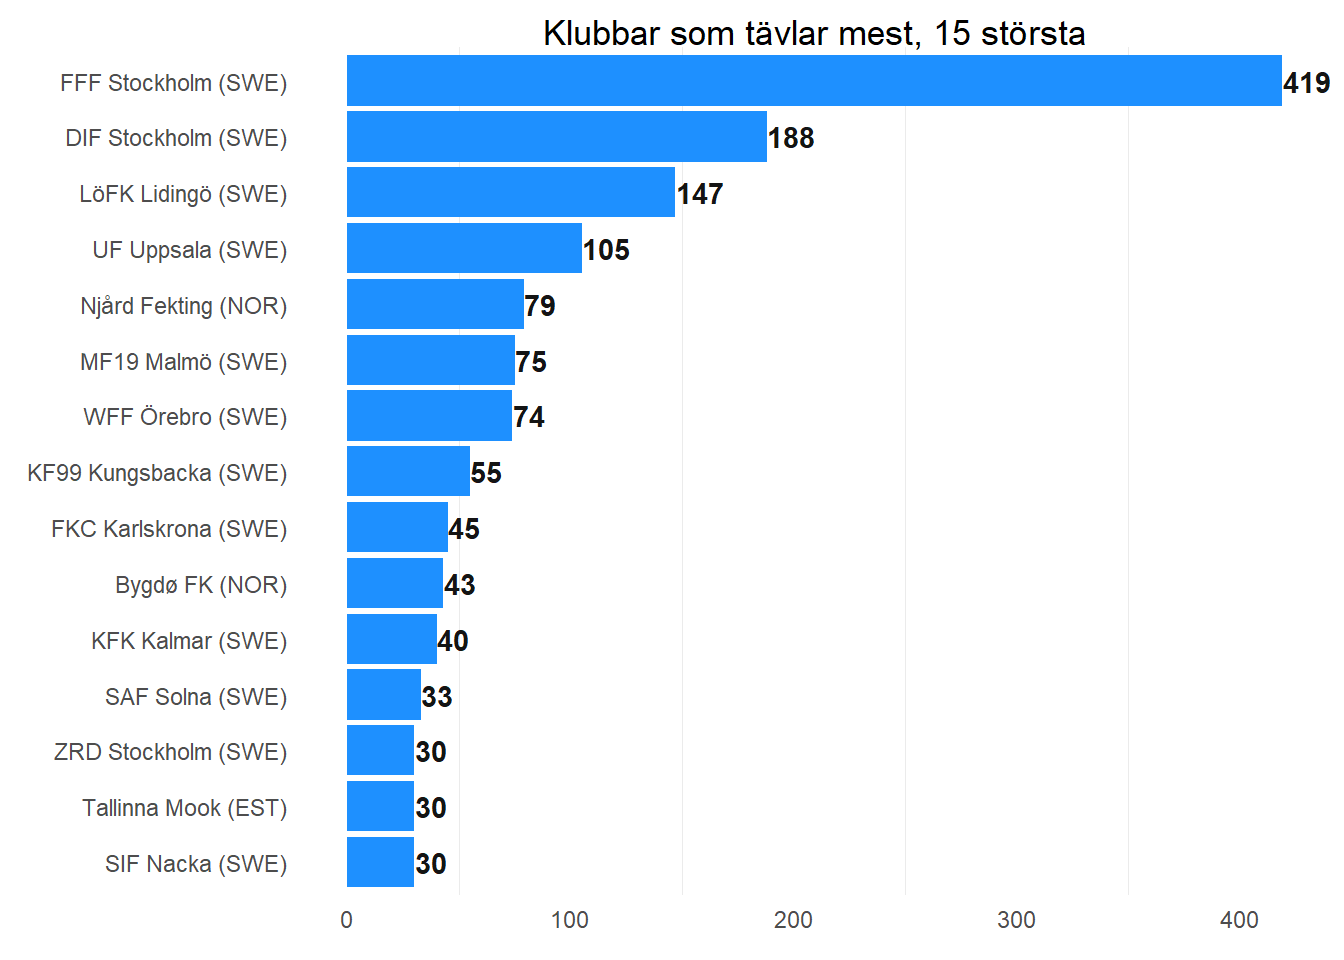
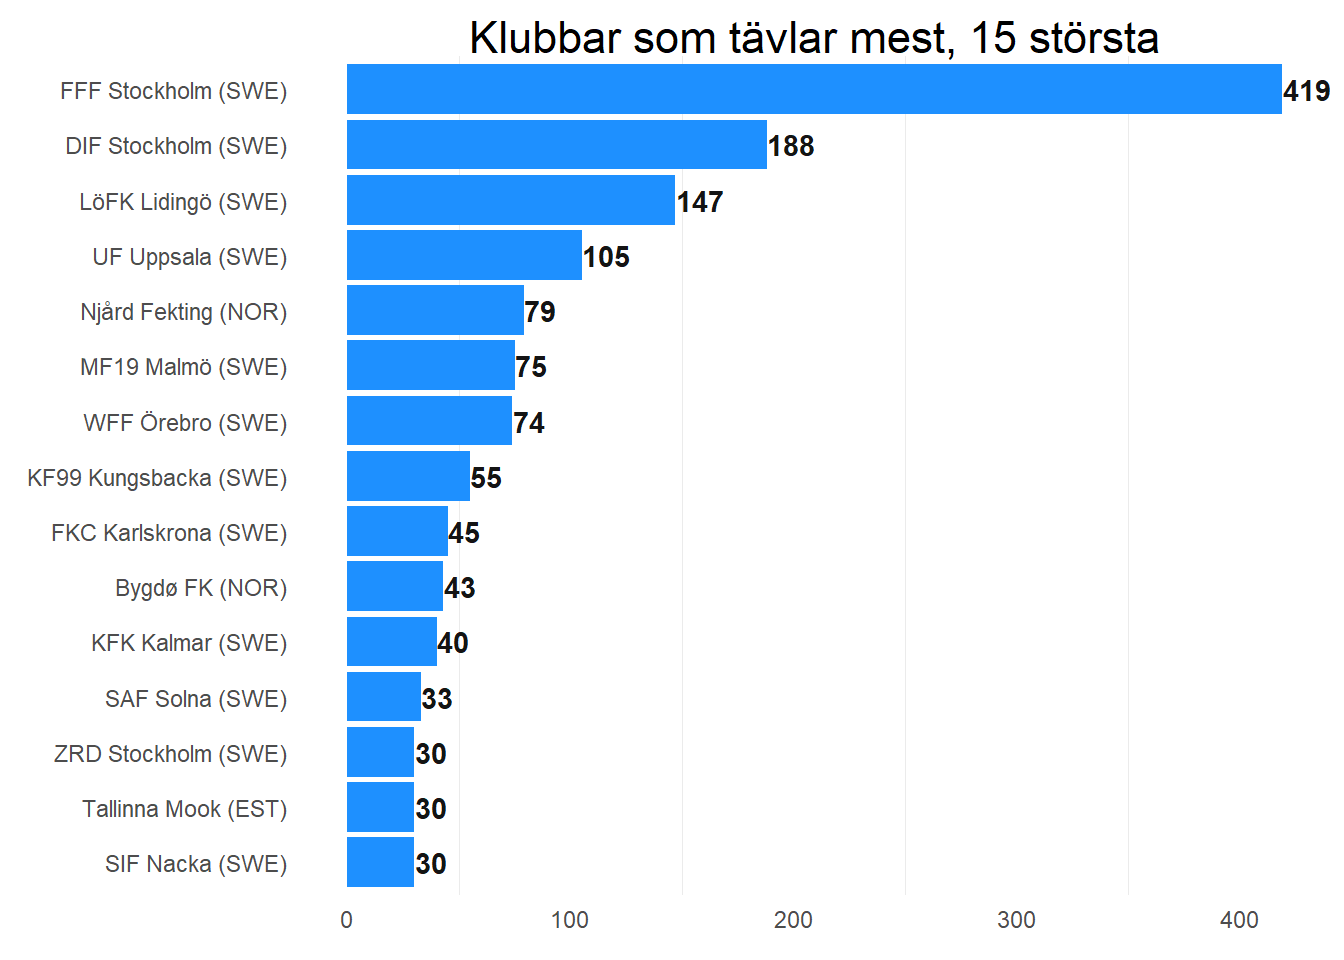
change fons size in ggplot theme

diff --git a/_site/posts/2023-03-23-stats_2023_clubs/index.html b/_site/posts/2023-03-23-stats_2023_clubs/index.html
@@ -200,23 +200,23 @@ ul.task-list li input[type="checkbox"] {
 <p>En sak till vore kul att kolla på och det är hur tävlingsdeltagandet för enskilda tävlingar, uppdelat per klubb, dvs på vilka tävlingar kan vi se många fäktare från samma klubb. Vi har tidigare konstaterat att de flesta tävlingar som drar många deltagare ligger utanför Stockholm och det kan vara kul att se hur mycket olika klubbar reser.</p>
 <div class="cell">
 <div class="cell-output-display">
-<div id="rlotyzjoeg" style="padding-left:0px;padding-right:0px;padding-top:10px;padding-bottom:10px;overflow-x:auto;overflow-y:auto;width:auto;height:auto;">
-<style>#rlotyzjoeg table {
+<div id="qmfsnofafq" style="padding-left:0px;padding-right:0px;padding-top:10px;padding-bottom:10px;overflow-x:auto;overflow-y:auto;width:auto;height:auto;">
+<style>#qmfsnofafq table {
   font-family: system-ui, 'Segoe UI', Roboto, Helvetica, Arial, sans-serif, 'Apple Color Emoji', 'Segoe UI Emoji', 'Segoe UI Symbol', 'Noto Color Emoji';
   -webkit-font-smoothing: antialiased;
   -moz-osx-font-smoothing: grayscale;
 }
 
-#rlotyzjoeg thead, #rlotyzjoeg tbody, #rlotyzjoeg tfoot, #rlotyzjoeg tr, #rlotyzjoeg td, #rlotyzjoeg th {
+#qmfsnofafq thead, #qmfsnofafq tbody, #qmfsnofafq tfoot, #qmfsnofafq tr, #qmfsnofafq td, #qmfsnofafq th {
   border-style: none;
 }
 
-#rlotyzjoeg p {
+#qmfsnofafq p {
   margin: 0;
   padding: 0;
 }
 
-#rlotyzjoeg .gt_table {
+#qmfsnofafq .gt_table {
   display: table;
   border-collapse: collapse;
   line-height: normal;
@@ -242,12 +242,12 @@ ul.task-list li input[type="checkbox"] {
   border-left-color: #D3D3D3;
 }
 
-#rlotyzjoeg .gt_caption {
+#qmfsnofafq .gt_caption {
   padding-top: 4px;
   padding-bottom: 4px;
 }
 
-#rlotyzjoeg .gt_title {
+#qmfsnofafq .gt_title {
   color: #333333;
   font-size: 125%;
   font-weight: initial;
@@ -259,7 +259,7 @@ ul.task-list li input[type="checkbox"] {
   border-bottom-width: 0;
 }
 
-#rlotyzjoeg .gt_subtitle {
+#qmfsnofafq .gt_subtitle {
   color: #333333;
   font-size: 85%;
   font-weight: initial;
@@ -271,7 +271,7 @@ ul.task-list li input[type="checkbox"] {
   border-top-width: 0;
 }
 
-#rlotyzjoeg .gt_heading {
+#qmfsnofafq .gt_heading {
   background-color: #FFFFFF;
   text-align: center;
   border-bottom-color: #FFFFFF;
@@ -283,13 +283,13 @@ ul.task-list li input[type="checkbox"] {
   border-right-color: #D3D3D3;
 }
 
-#rlotyzjoeg .gt_bottom_border {
+#qmfsnofafq .gt_bottom_border {
   border-bottom-style: solid;
   border-bottom-width: 2px;
   border-bottom-color: #D3D3D3;
 }
 
-#rlotyzjoeg .gt_col_headings {
+#qmfsnofafq .gt_col_headings {
   border-top-style: solid;
   border-top-width: 2px;
   border-top-color: #D3D3D3;
@@ -304,7 +304,7 @@ ul.task-list li input[type="checkbox"] {
   border-right-color: #D3D3D3;
 }
 
-#rlotyzjoeg .gt_col_heading {
+#qmfsnofafq .gt_col_heading {
   color: #333333;
   background-color: #FFFFFF;
   font-size: 100%;
@@ -324,7 +324,7 @@ ul.task-list li input[type="checkbox"] {
   overflow-x: hidden;
 }
 
-#rlotyzjoeg .gt_column_spanner_outer {
+#qmfsnofafq .gt_column_spanner_outer {
   color: #333333;
   background-color: #FFFFFF;
   font-size: 100%;
@@ -336,15 +336,15 @@ ul.task-list li input[type="checkbox"] {
   padding-right: 4px;
 }
 
-#rlotyzjoeg .gt_column_spanner_outer:first-child {
+#qmfsnofafq .gt_column_spanner_outer:first-child {
   padding-left: 0;
 }
 
-#rlotyzjoeg .gt_column_spanner_outer:last-child {
+#qmfsnofafq .gt_column_spanner_outer:last-child {
   padding-right: 0;
 }
 
-#rlotyzjoeg .gt_column_spanner {
+#qmfsnofafq .gt_column_spanner {
   border-bottom-style: solid;
   border-bottom-width: 2px;
   border-bottom-color: #D3D3D3;
@@ -356,11 +356,11 @@ ul.task-list li input[type="checkbox"] {
   width: 100%;
 }
 
-#rlotyzjoeg .gt_spanner_row {
+#qmfsnofafq .gt_spanner_row {
   border-bottom-style: hidden;
 }
 
-#rlotyzjoeg .gt_group_heading {
+#qmfsnofafq .gt_group_heading {
   padding-top: 8px;
   padding-bottom: 8px;
   padding-left: 5px;
@@ -386,7 +386,7 @@ ul.task-list li input[type="checkbox"] {
   text-align: left;
 }
 
-#rlotyzjoeg .gt_empty_group_heading {
+#qmfsnofafq .gt_empty_group_heading {
   padding: 0.5px;
   color: #333333;
   background-color: #FFFFFF;
@@ -401,15 +401,15 @@ ul.task-list li input[type="checkbox"] {
   vertical-align: middle;
 }
 
-#rlotyzjoeg .gt_from_md > :first-child {
+#qmfsnofafq .gt_from_md > :first-child {
   margin-top: 0;
 }
 
-#rlotyzjoeg .gt_from_md > :last-child {
+#qmfsnofafq .gt_from_md > :last-child {
   margin-bottom: 0;
 }
 
-#rlotyzjoeg .gt_row {
+#qmfsnofafq .gt_row {
   padding-top: 8px;
   padding-bottom: 8px;
   padding-left: 5px;
@@ -428,7 +428,7 @@ ul.task-list li input[type="checkbox"] {
   overflow-x: hidden;
 }
 
-#rlotyzjoeg .gt_stub {
+#qmfsnofafq .gt_stub {
   color: #333333;
   background-color: #FFFFFF;
   font-size: 100%;
@@ -441,7 +441,7 @@ ul.task-list li input[type="checkbox"] {
   padding-right: 5px;
 }
 
-#rlotyzjoeg .gt_stub_row_group {
+#qmfsnofafq .gt_stub_row_group {
   color: #333333;
   background-color: #FFFFFF;
   font-size: 100%;
@@ -455,15 +455,15 @@ ul.task-list li input[type="checkbox"] {
   vertical-align: top;
 }
 
-#rlotyzjoeg .gt_row_group_first td {
+#qmfsnofafq .gt_row_group_first td {
   border-top-width: 2px;
 }
 
-#rlotyzjoeg .gt_row_group_first th {
+#qmfsnofafq .gt_row_group_first th {
   border-top-width: 2px;
 }
 
-#rlotyzjoeg .gt_summary_row {
+#qmfsnofafq .gt_summary_row {
   color: #333333;
   background-color: #FFFFFF;
   text-transform: inherit;
@@ -473,16 +473,16 @@ ul.task-list li input[type="checkbox"] {
   padding-right: 5px;
 }
 
-#rlotyzjoeg .gt_first_summary_row {
+#qmfsnofafq .gt_first_summary_row {
   border-top-style: solid;
   border-top-color: #D3D3D3;
 }
 
-#rlotyzjoeg .gt_first_summary_row.thick {
+#qmfsnofafq .gt_first_summary_row.thick {
   border-top-width: 2px;
 }
 
-#rlotyzjoeg .gt_last_summary_row {
+#qmfsnofafq .gt_last_summary_row {
   padding-top: 8px;
   padding-bottom: 8px;
   padding-left: 5px;
@@ -492,7 +492,7 @@ ul.task-list li input[type="checkbox"] {
   border-bottom-color: #D3D3D3;
 }
 
-#rlotyzjoeg .gt_grand_summary_row {
+#qmfsnofafq .gt_grand_summary_row {
   color: #333333;
   background-color: #FFFFFF;
   text-transform: inherit;
@@ -502,7 +502,7 @@ ul.task-list li input[type="checkbox"] {
   padding-right: 5px;
 }
 
-#rlotyzjoeg .gt_first_grand_summary_row {
+#qmfsnofafq .gt_first_grand_summary_row {
   padding-top: 8px;
   padding-bottom: 8px;
   padding-left: 5px;
@@ -512,7 +512,7 @@ ul.task-list li input[type="checkbox"] {
   border-top-color: #D3D3D3;
 }
 
-#rlotyzjoeg .gt_last_grand_summary_row_top {
+#qmfsnofafq .gt_last_grand_summary_row_top {
   padding-top: 8px;
   padding-bottom: 8px;
   padding-left: 5px;
@@ -522,11 +522,11 @@ ul.task-list li input[type="checkbox"] {
   border-bottom-color: #D3D3D3;
 }
 
-#rlotyzjoeg .gt_striped {
+#qmfsnofafq .gt_striped {
   background-color: rgba(128, 128, 128, 0.05);
 }
 
-#rlotyzjoeg .gt_table_body {
+#qmfsnofafq .gt_table_body {
   border-top-style: solid;
   border-top-width: 2px;
   border-top-color: #D3D3D3;
@@ -535,7 +535,7 @@ ul.task-list li input[type="checkbox"] {
   border-bottom-color: #D3D3D3;
 }
 
-#rlotyzjoeg .gt_footnotes {
+#qmfsnofafq .gt_footnotes {
   color: #333333;
   background-color: #FFFFFF;
   border-bottom-style: none;
@@ -549,7 +549,7 @@ ul.task-list li input[type="checkbox"] {
   border-right-color: #D3D3D3;
 }
 
-#rlotyzjoeg .gt_footnote {
+#qmfsnofafq .gt_footnote {
   margin: 0px;
   font-size: 90%;
   padding-top: 4px;
@@ -558,7 +558,7 @@ ul.task-list li input[type="checkbox"] {
   padding-right: 5px;
 }
 
-#rlotyzjoeg .gt_sourcenotes {
+#qmfsnofafq .gt_sourcenotes {
   color: #333333;
   background-color: #FFFFFF;
   border-bottom-style: none;
@@ -572,7 +572,7 @@ ul.task-list li input[type="checkbox"] {
   border-right-color: #D3D3D3;
 }
 
-#rlotyzjoeg .gt_sourcenote {
+#qmfsnofafq .gt_sourcenote {
   font-size: 90%;
   padding-top: 4px;
   padding-bottom: 4px;
@@ -580,63 +580,63 @@ ul.task-list li input[type="checkbox"] {
   padding-right: 5px;
 }
 
-#rlotyzjoeg .gt_left {
+#qmfsnofafq .gt_left {
   text-align: left;
 }
 
-#rlotyzjoeg .gt_center {
+#qmfsnofafq .gt_center {
   text-align: center;
 }
 
-#rlotyzjoeg .gt_right {
+#qmfsnofafq .gt_right {
   text-align: right;
   font-variant-numeric: tabular-nums;
 }
 
-#rlotyzjoeg .gt_font_normal {
+#qmfsnofafq .gt_font_normal {
   font-weight: normal;
 }
 
-#rlotyzjoeg .gt_font_bold {
+#qmfsnofafq .gt_font_bold {
   font-weight: bold;
 }
 
-#rlotyzjoeg .gt_font_italic {
+#qmfsnofafq .gt_font_italic {
   font-style: italic;
 }
 
-#rlotyzjoeg .gt_super {
+#qmfsnofafq .gt_super {
   font-size: 65%;
 }
 
-#rlotyzjoeg .gt_footnote_marks {
+#qmfsnofafq .gt_footnote_marks {
   font-size: 75%;
   vertical-align: 0.4em;
   position: initial;
 }
 
-#rlotyzjoeg .gt_asterisk {
+#qmfsnofafq .gt_asterisk {
   font-size: 100%;
   vertical-align: 0;
 }
 
-#rlotyzjoeg .gt_indent_1 {
+#qmfsnofafq .gt_indent_1 {
   text-indent: 5px;
 }
 
-#rlotyzjoeg .gt_indent_2 {
+#qmfsnofafq .gt_indent_2 {
   text-indent: 10px;
 }
 
-#rlotyzjoeg .gt_indent_3 {
+#qmfsnofafq .gt_indent_3 {
   text-indent: 15px;
 }
 
-#rlotyzjoeg .gt_indent_4 {
+#qmfsnofafq .gt_indent_4 {
   text-indent: 20px;
 }
 
-#rlotyzjoeg .gt_indent_5 {
+#qmfsnofafq .gt_indent_5 {
   text-indent: 25px;
 }
 </style>
